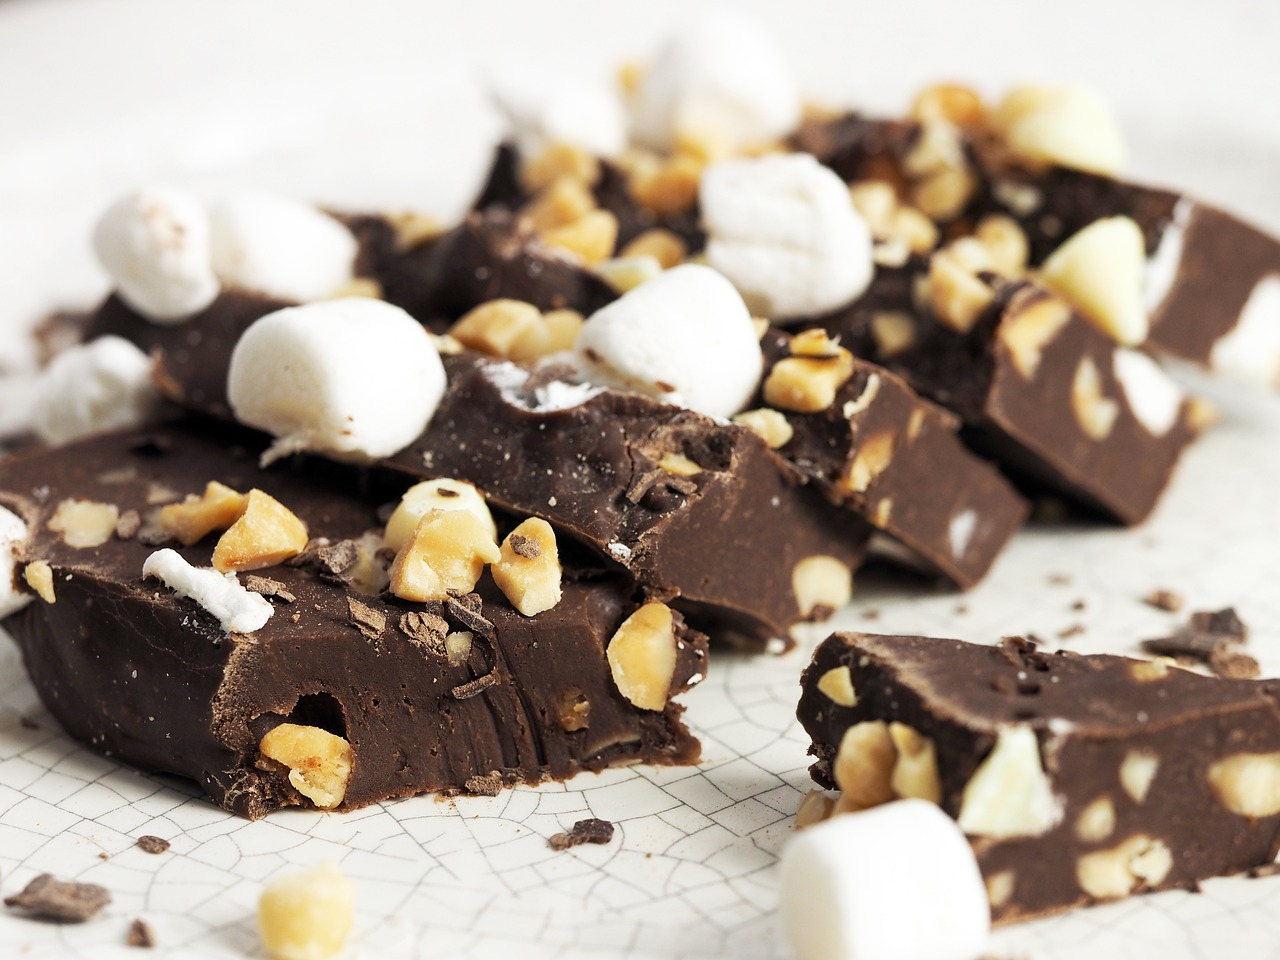
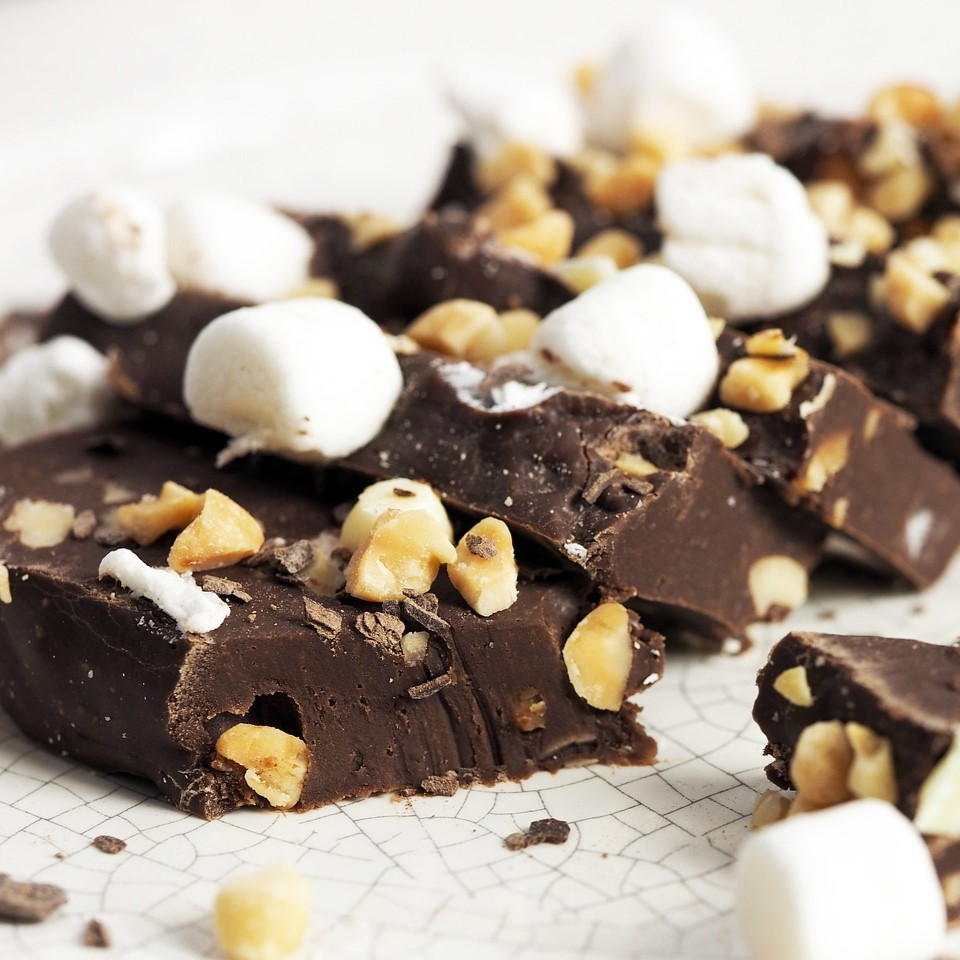
trimmed photos, adjusted spacing on home page

diff --git a/src/index.html b/src/index.html
@@ -6,6 +6,10 @@
     <title>Bootstrap Project</title>
     <link href="https://cdn.jsdelivr.net/npm/bootstrap@5.3.3/dist/css/bootstrap.min.css" rel="stylesheet" integrity="sha384-QWTKZyjpPEjISv5WaRU9OFeRpok6YctnYmDr5pNlyT2bRjXh0JMhjY6hW+ALEwIH" crossorigin="anonymous">
     <link href="./style.css" rel="stylesheet">
+    <link rel="preconnect" href="https://fonts.googleapis.com">
+    <link rel="preconnect" href="https://fonts.gstatic.com" crossorigin>
+    <link href="https://fonts.googleapis.com/css2?family=Imbue:opsz,wght@10..100,100..900&display=swap" rel="stylesheet">
+
 </head>
 <body>
     <nav class="navbar navbar-expand-lg navbar-light bg-light fixed-top">
@@ -36,11 +40,12 @@
         <div class="carousel-item active">
       <div class="carousel-item active">
         <img src="./images/caramel.jpg" class="d-block w-100" alt="...">
-        <div class="carousel-caption d-none d-md-block">
+        <div class="carousel-caption">
           <h5>Candy of the Day
           </h5>
           <h2> Caramels </h2>
           <p> Lorem ipsum dolor sit amet, consectetur adipiscing elit, sed do eiusmod tempor incididunt ut labore et dolore magna aliqua. Ut enim ad minim veniam, quis nostrud exercitation ullamco laboris nisi ut aliquip ex ea commodo consequat. Duis aute irure dolor in reprehenderit in voluptate velit esse cillum dolore eu fugiat nulla pariatur. </p>
+          <p><a href="#caramels" class="btn btn-secondary">View Recipe</a></p>
         </div>
       </div>
     </div>
@@ -57,7 +62,8 @@
                 </div>
             </div>
 
-            <div class="card mb-3" style="max-width: 540px;">
+            <div class="row g-0">
+                <div class="card mb-3" style="max-width: 540px;">
                 <div class="row g-0">
                   <div class="col-md-4">
                     <img src="./images/mints.jpg" class="img-fluid rounded-start" alt="...">
@@ -71,6 +77,22 @@
                   </div>
                 </div>
               </div>
+              <div class="card mb-3" style="max-width: 540px;">
+                <div class="row g-0">
+                  <div class="col-md-4">
+                    <img src="./images/toffee.jpg" class="img-fluid rounded-start" alt="...">
+                  </div>
+                  <div class="col-md-8">
+                    <div class="card-body">
+                      <h5 class="card-title">Almond Butter Toffee</h5>
+                      <p class="card-text">This is a wider card with supporting text below as a natural lead-in to additional content. This content is a little bit longer.</p>
+                      <a href="#mints" class="btn btn-primary">View Recipe</a>
+                    </div>
+                  </div>
+                </div>
+              </div>
+            </div>
+            
         </div>
       </section>
 

diff --git a/css/style.css b/css/style.css
@@ -1,0 +1,121 @@
+*{
+    font-family: "Imbue", serif;
+}
+
+body{
+    background: f1fbff;
+}
+.section-padding{
+    padding: 100px 0;
+}
+.carousel-item{
+    height: 75vh;
+    min-height: 300px;
+}
+.carousel-caption{
+    top: 100px;
+    z-index: 2;
+}
+.carousel-caption h5{
+    font-size: 45px;
+    text-transform: uppercase;
+    letter-spacing: 2px;
+    margin-top: 25px;
+    margin-bottom: 15%;
+}
+.carousel-caption p{
+    width: 60%;
+    margin: auto;
+    line-height: 1.9;
+    font-size: 18px;
+}
+.carousel-inner::before{
+    content: '';
+    position: absolute;
+    width: 100%;
+    height: 100%;
+    top: 0;
+    left: 0;
+    background: rgba(0,0,0,0.5);
+    z-index: 1;
+}
+.navbar-nav a{
+    font-size: 25px;
+    text-transform: uppercase;
+    font-weight: 500;
+}
+.navbar-light .navbar-brand {
+	color: #966B9D;
+	font-size: 35px;
+	text-transform: uppercase;
+	font-weight: bold;
+	letter-spacing: 2px;
+}
+.navbar-light .navbar-nav .nav-link {
+	color: #E7CFBC;
+}
+.navbar-light .navbar-nav .nav-link:focus, .navbar-light .navbar-nav .nav-link:hover {
+	color: #F2B880;
+}
+.w-100 {
+	height: 75vh;
+}
+.trending-label{
+    color: #C98686;
+    margin-left: 5px;
+}
+.trending-section-padding{
+    padding: 30px 0;
+}
+.btn-primary{
+    background-color: #966B9D;
+    border: #966B9D;
+    width: 40%;
+}
+.btn-secondary{
+    width: 40%;
+    margin-top: 5px;
+    background-color: #FFD97D;
+    border: #FFD97D;
+    color: #966B9D;
+    font-size: 20px;
+    font-weight: bold;
+    box-shadow: 0 3px 10px rgb(0 0 0 / 0.2);
+}
+.card-text{
+    margin-bottom: 5px;
+}
+.card{
+    margin: 5px;
+}
+
+/* === responsive css === */
+@media only screen and (min-width: 768px) and (max-width: 991px){
+    .carousel-caption{
+        bottom: 370px;
+    }
+    .carousel-caption p{
+        width: 100%;
+    }
+
+}
+
+@media only screen and (max-width: 767px){
+        .navbar-nav{
+            text-align: center;
+        }
+        .carousel-caption{
+            bottom: 125px;
+        }
+        .carousel-caption h5{
+            font-size: 17px;
+        }
+        .carousel-caption a{
+            padding: 10px 15px;
+        }
+        .carousel-caption p{
+            width: 100%;
+            line-height: 1.6;
+            font-size: 12px;
+        }
+}
